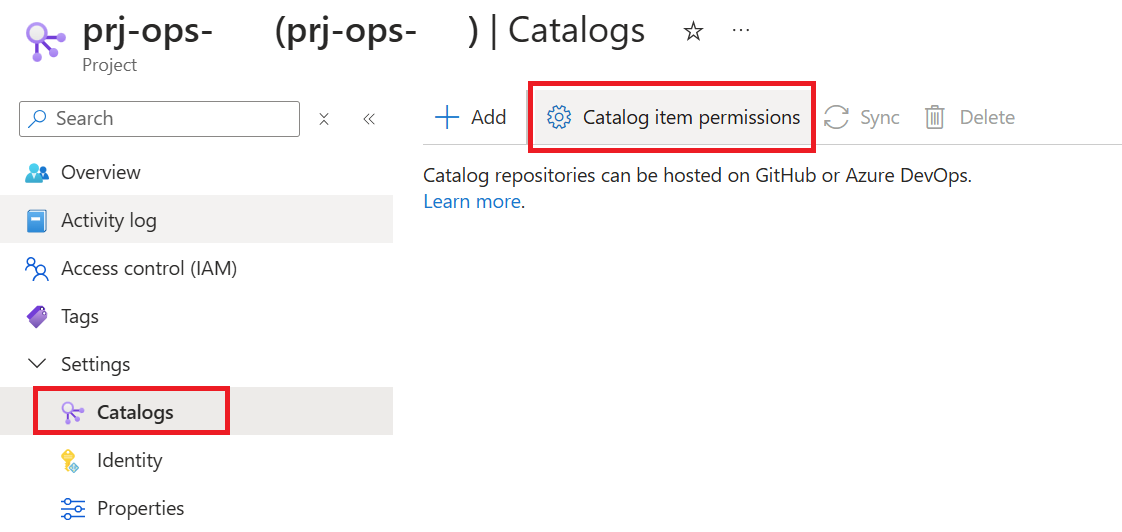
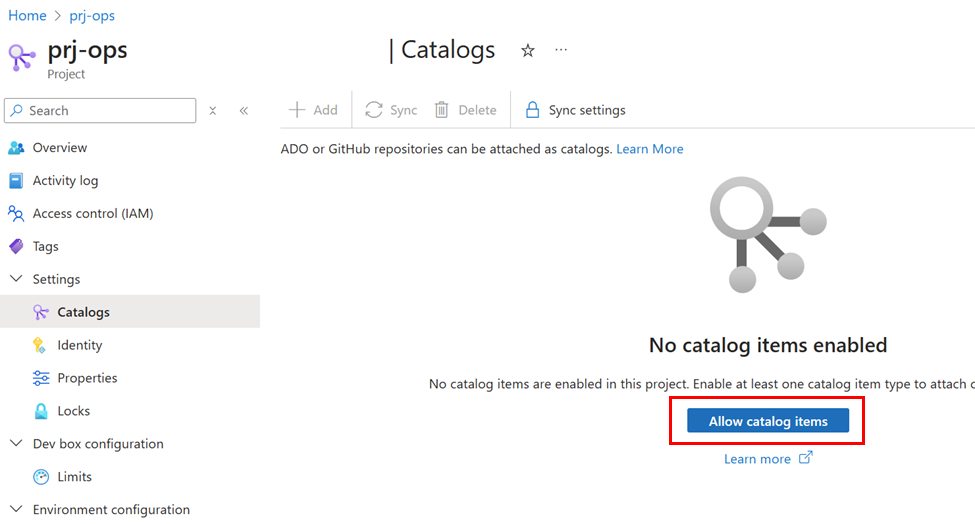
Correcting a spelling mistake UI Update screenshots

diff --git a/docs/workshop.md b/docs/workshop.md
@@ -199,7 +199,7 @@ Now, open the resource group deployed previously and open the Key Vault. In the 
 
 ## Activate the Catalog feature
 
-Finally, in the Dev Center, go to **Settings** and then **Configuration** and Click on **Enable Catalog per projects**. This will allow you to define your catalogs at the project level, you will learn more about this in the lab.
+Finally, in the Dev Center, go to **Settings** and then **Dev center settings** and Click on **Enable Catalog per projects**. This will allow you to define your catalogs at the project level, you will learn more about this in the lab.
 
 ![Enable Catalog per projects](assets/lab0-prerequisites/dev-center-enable-catalog-per-project.png)
 
@@ -398,7 +398,7 @@ Click on **Create**, your project have now the permissions to get and list secre
 
 ## Autorized customizations
 
-At this point, you have created a project with Dev Box pools for the frontend and the backend developers. Those Dev Box pools provide default configuration for your developers. However, you may want to allow your developers to customize their Dev Boxes to meet their specific needs or to install additional tools. This is possible by authorizing customizations at the project level.
+At this point, you have created a project with Dev Box pools for the frontend and the backend developers. These Dev Box pools provide default configuration for your developers. However, you may want to allow your developers to customize their Dev Boxes to meet their specific needs or to install additional tools. This can be done by authorizing customizations at the project level.
 
 Developers can customize their Dev Boxes using yaml files such as this one at the instanciation of the Dev Box:
 
@@ -954,7 +954,7 @@ Let's start by crafting a policy that denies the creation of network security gr
 
 ### Deploy the policy definition
 
-In the Azure Portal, search for **Policy** in thpage.
+In the Azure Portal, type **Policy** in the top search bar.
 ![Policy Page](assets/lab3-azurepolicy/azpolicy-search.png)
 
 Then click on **Definitions** and then **+ Policy definition**.
@@ -1368,7 +1368,7 @@ All the features that you will see in this lab can be control globally in a GitH
 
 ## Dependabot
 
-Let's activate Dependabot in your repository, go to **Settings** > **Code security and analysis** and enable **Dependabot alerts** and **Dependabot security updates**:
+Let's activate Dependabot in your repository, go to **Settings** > **Code security** and enable **Dependabot alerts** and **Dependabot security updates**:
 
 ![Enable Dependabot](assets/lab4-ghas/ghas-enable-dependabot.png)
 
@@ -1506,7 +1506,7 @@ jobs:
 
 As you probably already noticed, the action `actions/checkout` is outdated and should have a version greater than 3, let's see how `Dependabot version updates` can help you on that.
 
-Navigate to the **Settings** tab and select **Code security and analysis** and enable **Dependabot version updates**.
+Navigate to the **Settings** tab and select **Code security** and enable **Dependabot version updates**.
 You will be redirected to a YAML editor to define a file called `dependabot.yml`. This file allows you to configure dependabot to check dependencies of your different package manager and dynamically create Pull Requests to update them.
 
 <div class="task" data-title="Tasks">
@@ -1563,7 +1563,7 @@ Code scanning is a feature of GitHub Advanced Security that helps you find and f
 
 Let's create an empty file called `main.js` in your repository. You will add some code to this file later.
 
-To enable code scanning, go to the **Settings** tab and select **Code security and analysis**, then go to **Code scanning** inside and select **Set up** and **Default**.
+To enable code scanning, go to the **Settings** tab and select **Code security**, then go to **Code scanning** inside and select **Set up** and **Default**.
 
 ![Enable Code Scanning](assets/lab4-ghas/ghas-enable-code-scanning.png)
 
